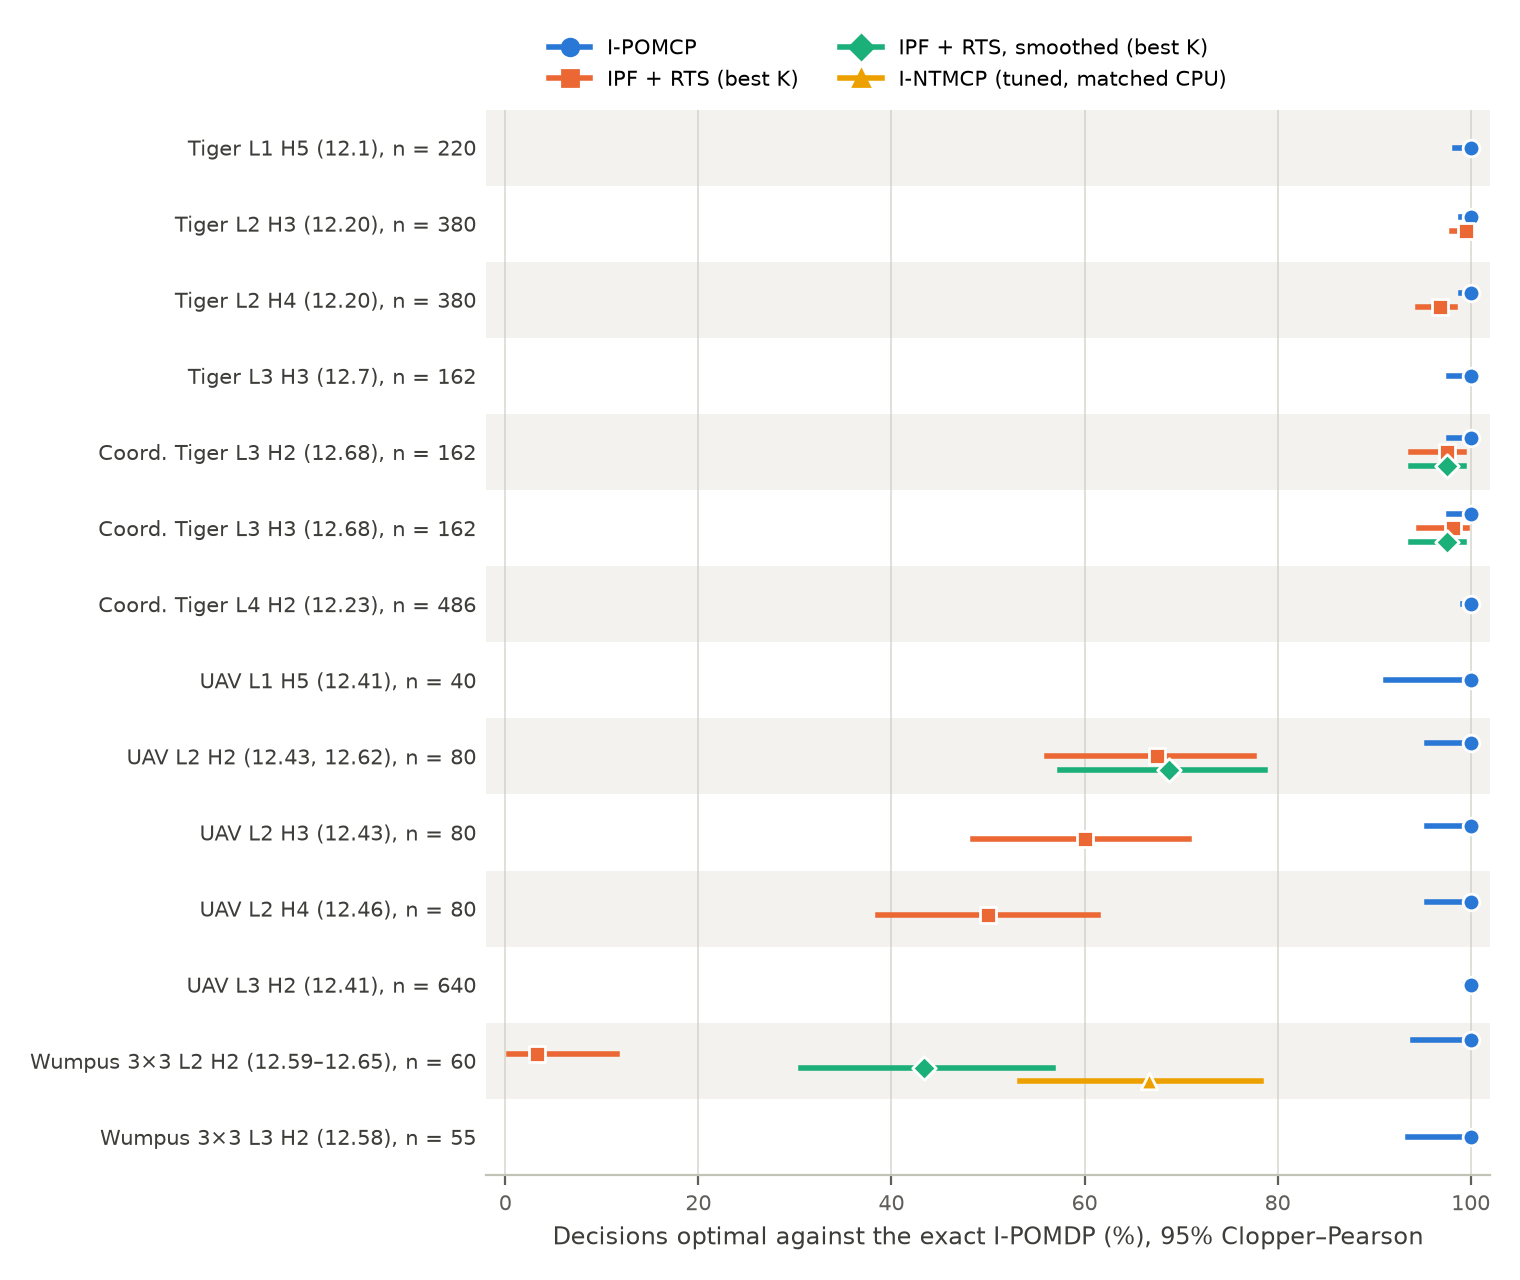
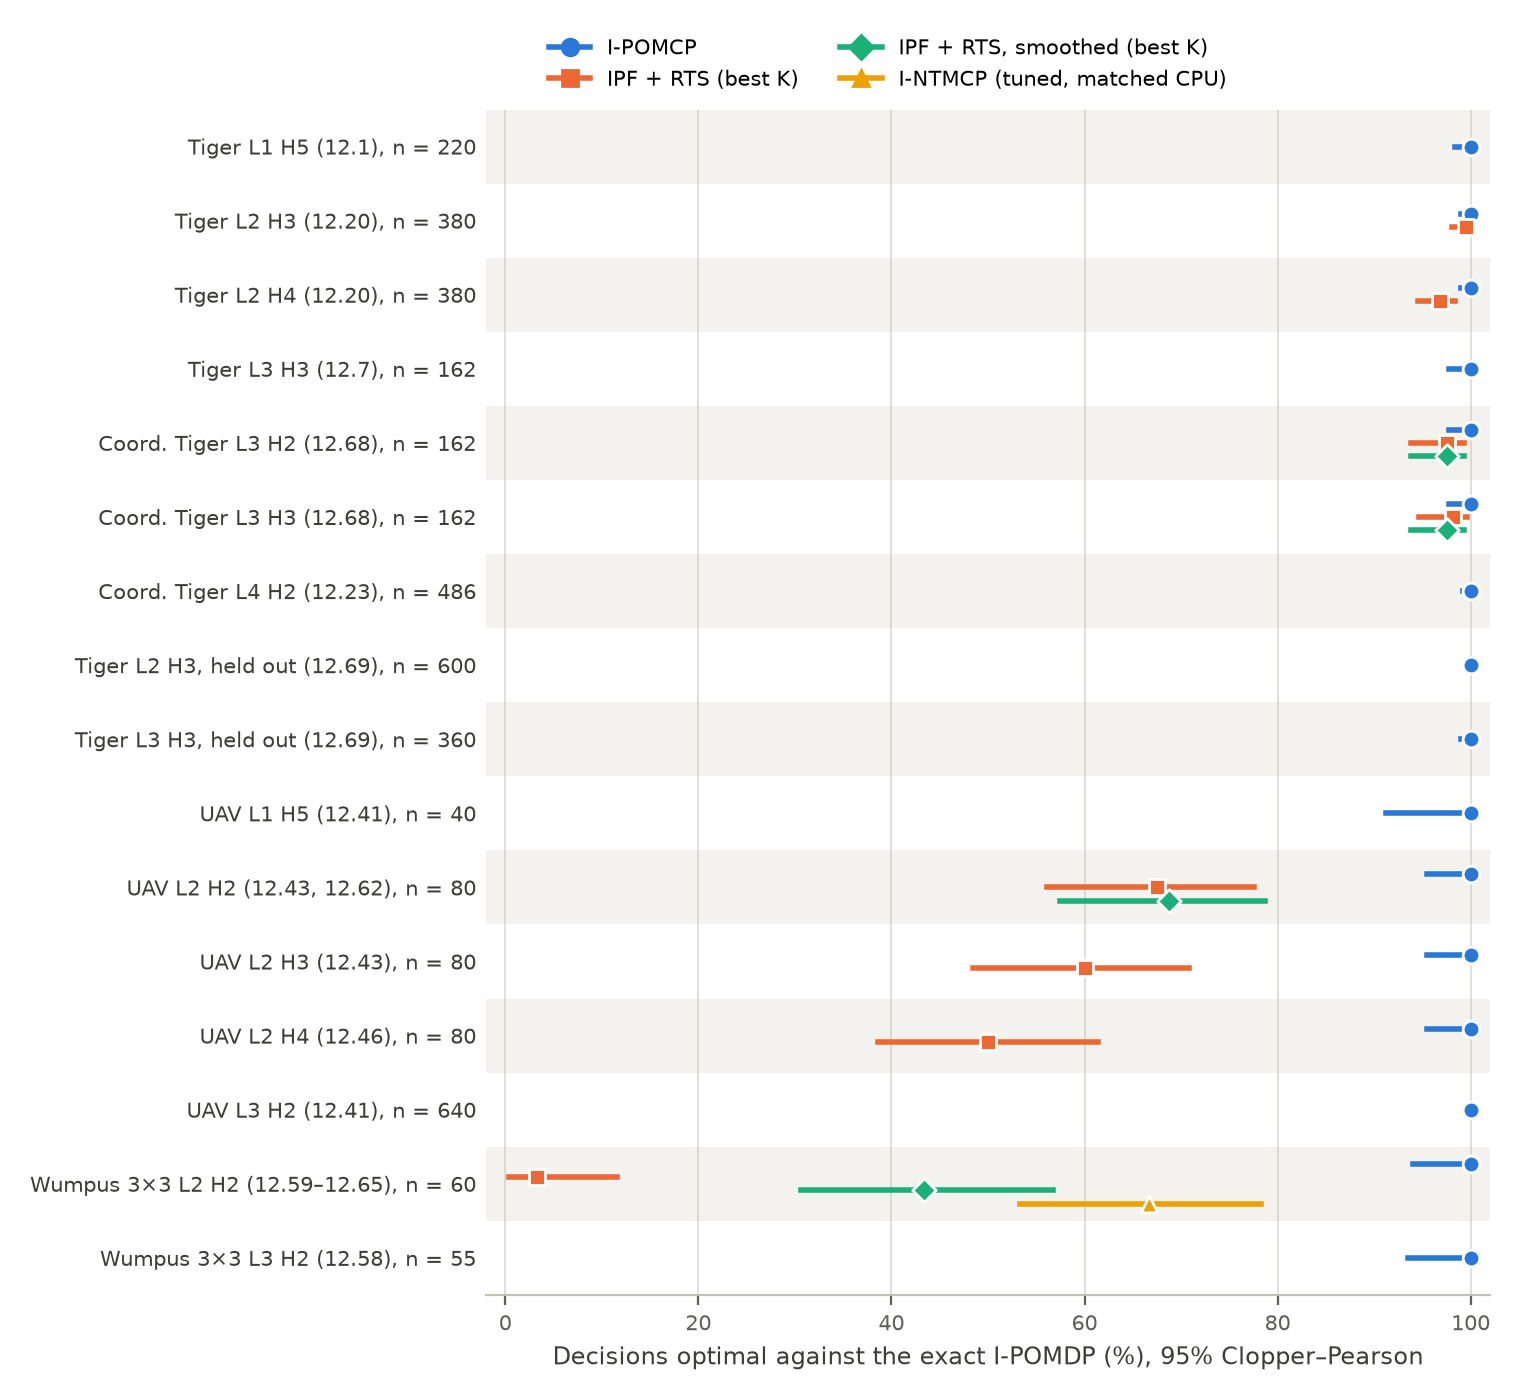
RESULTS 12.69: held-out check, qualified Tiger configurations optimal on 960/960 random beliefs no qualification used; draft, PAPER, Figure 1, PLAN, HANDOFF

diff --git a/docs/paper/draft.md b/docs/paper/draft.md
@@ -4,7 +4,7 @@
 
 ## Abstract
 
-Interactive POMDPs (I-POMDPs) let an agent plan against opponents that plan in turn, by holding beliefs over the opponent's beliefs. Exact solutions are intractable beyond toy problems, so practice relies on sampling planners. Their decisions have never been checked against exact I-POMDP solutions. We present I-POMCP, an online Monte Carlo tree search planner whose nested beliefs are exact, or compressed from exact updates, and whose search values are rescored with the exact chance law after search. Each decision carries per-action intervals that contain the exact action values of the searched model. Against exact I-POMDP solutions in three domains (multi-agent Tiger, UAV reconnaissance and a two-agent Wumpus world) and at nesting levels 1–4, I-POMCP's decisions are optimal on every problem of every gate we ran, for example 486 of 486 at level 4. The published baseline (an interactive particle filter with reachability-tree sampling) is optimal on 1.7–99.5% of the same problems. A modern nested MCTS planner (I-NTMCP) is optimal on 40 of 60 at matched CPU. The sampled filters fail outright when sensors are deterministic, and a standard repair does not close the gap. Beyond exact reach, in 20-step UAV episodes, I-POMCP earns more than I-NTMCP at matched CPU up to about 13 s per decision, and both reach the best reward at about 55 s. Finally, we show both by proposition and in paired episodes in four games that one more level of reasoning pays exactly when the opponent's actions depend on its beliefs about the agent, and not against a random opponent.
+Interactive POMDPs (I-POMDPs) let an agent plan against opponents that plan in turn, by holding beliefs over the opponent's beliefs. Exact solutions are intractable beyond toy problems, so practice relies on sampling planners. Their decisions have never been checked against exact I-POMDP solutions. We present I-POMCP, an online Monte Carlo tree search planner whose nested beliefs are exact, or compressed from exact updates, and whose search values are rescored with the exact chance law after search. Each decision carries per-action intervals that contain the exact action values of the searched model. Against exact I-POMDP solutions in three domains (multi-agent Tiger, UAV reconnaissance and a two-agent Wumpus world) and at nesting levels 1–4, I-POMCP's decisions at qualified budgets are optimal on every problem of every gate we ran, for example 486 of 486 at level 4, and on 960 of 960 held-out random beliefs. The published baseline (an interactive particle filter with reachability-tree sampling) is optimal on 1.7–99.5% of the same problems. A modern nested MCTS planner (I-NTMCP) is optimal on 40 of 60 at matched CPU. The sampled filters fail outright when sensors are deterministic, and a standard repair does not close the gap. Beyond exact reach, in 20-step UAV episodes, I-POMCP earns more than I-NTMCP at matched CPU up to about 13 s per decision, and both reach the best reward at about 55 s. Finally, we show both by proposition and in paired episodes in four games that one more level of reasoning pays exactly when the opponent's actions depend on its beliefs about the agent, and not against a random opponent.
 
 ## 1. Introduction
 
@@ -14,7 +14,7 @@ Online sampling planners make I-POMDPs usable at all: the interactive particle f
 
 We take the opposite route: make the planner exact wherever exactness is affordable, and check it against exact solutions wherever they can be computed. Our contributions:
 
-1. **I-POMCP, a planner that is exact where checkable** (Sections 4–5). It searches over the agent's private histories with Bellman backups and exact expected rewards. It holds nested beliefs exactly or compressed from exact updates, and rescores the tree with the exact chance law after search. On every gate grid we ran, across three domains and levels 1–4, its decisions are optimal against the exact I-POMDP. Its decisions carry certified per-action bounds, which contained the exact value in 1,016 of 1,016 decisions checked.
+1. **I-POMCP, a planner that is exact where checkable** (Sections 4–5). It searches over the agent's private histories with Bellman backups and exact expected rewards. It holds nested beliefs exactly or compressed from exact updates, and rescores the tree with the exact chance law after search. At qualified budgets, on every gate grid we ran across three domains and levels 1–4, and on held-out beliefs no qualification used, its decisions are optimal against the exact I-POMDP. Its decisions carry certified per-action bounds, which contained the exact value in 1,016 of 1,016 decisions checked.
 2. **A decision-level comparison with the published and the modern baselines** (Section 6). IPF + RTS misses 0.5–54% of decisions where its filter works. Its interactive particle filter fails on 55–57 of 60 problems when sensors are deterministic, and the standard likelihood-smoothing repair does not close the gap. I-NTMCP, run with the authors' code, is optimal on 40 of 60 Wumpus problems at I-POMCP's CPU. Beyond exact reach, I-POMCP earns more than tuned I-NTMCP in UAV episodes at matched CPU, until both saturate.
 3. **When a deeper model pays** (Section 7). A proposition shows that against an opponent whose actions do not depend on its beliefs about the agent, no model beats the level-1 best response. Paired episodes in four games confirm both directions: a second level gains 5.8–179 in reward against an intentional opponent where payoffs couple the agents, and nothing against a random one. The same prediction gain earns nothing when payoffs do not depend on the opponent.
 
@@ -91,8 +91,9 @@ A modeled opponent's solve may stop early when its sampled root value has conver
 | UAV | L3, H2 | 640 | 640/640 | [0.994, 1] | 12.41 |
 | Wumpus 3 × 3 | L2, H2 | 60 | 60/60 | [0.940, 1] | 12.58 |
 | Wumpus 3 × 3 | L3, H2 | 55 | 55/55 | [0.935, 1] | 12.58 |
+| Tiger, both games, held out | L2 H3; L3 H3 | 600; 360 | 600/600; 360/360 | [0.994, 1]; [0.990, 1] | 12.69 |
 
-**Below the qualified budgets, I-POMCP does miss.** On UAV, a target modeled with 100 simulations gives 63/80 at L2 H3 [12.41]. At L2 H4 with the target at 400, *i* is wrong on 16 of 32 problems: that is error in the opponent's model, not in *i*'s search [12.42]. At L1 H5, roots below 64,000 overestimate suboptimal moves [12.41]. Every qualified budget is the smallest rung of a ladder that was 100% on its grid, so the table above selects on the grid it reports. Two checks answer this. First, 12.69 reruns the qualified Tiger configurations, unchanged, on random beliefs and seeds no qualification used. Second, 12.67 scores every decision at histories reached in UAV episodes, which are beliefs no qualification saw: 120/120 per arm (Section 6.2).
+**Below the qualified budgets, I-POMCP does miss.** On UAV, a target modeled with 100 simulations gives 63/80 at L2 H3 [12.41]. At L2 H4 with the target at 400, *i* is wrong on 16 of 32 problems: that is error in the opponent's model, not in *i*'s search [12.42]. At L1 H5, roots below 64,000 overestimate suboptimal moves [12.41]. Every qualified budget is the smallest rung of a ladder that was 100% on its grid, so the table above selects on the grid it reports. Two checks answer this. First, the qualified Tiger configurations, rerun unchanged on 960 random beliefs and seeds that no qualification used, are optimal on all 960 (L2 H3: 300/300 per game; L3 H3: 180/180 per game; published and coordination Tiger) [12.69]. Second, 12.67 scores every decision at histories reached in UAV episodes, which are beliefs no qualification saw: 120/120 per arm (Section 6.2).
 
 Wumpus 4 × 4 at level 1 is qualified on 52 beliefs with *N* = 4,096 atoms [12.53]. The one residual is Tiger L3 H4, where 4 of 80 decisions miss near-ties with gaps of at most 0.03. All 80 are ε-correct [12.14, 12.54]. The certified bounds contained the exact *Q* of the searched model in 1,016 of 1,016 decisions checked [12.17, 12.41].
 

diff --git a/docs/RESULTS.md b/docs/RESULTS.md
@@ -2299,6 +2299,28 @@ The definition is in THEORY.md, "Tie convention".
   - These are per-decision values at the gate's chains, not the episode distribution. The target's own screen needs references from its side, which are not stored.
 - **Reading:** the screen tells *where* depth pays: never at the prior, and at 19 of the 40 later histories. It is not tied to sensing the wumpus: 17 of those 19 histories contain no stench. This is a reusable, episode-free check. A matched control screen (histories from a random wumpus) is the obvious next step, at about the same cost.
 
+### 12.69 Held-out check: the qualified Tiger configurations are optimal on 960 of 960 random beliefs no qualification used (October 19, 2026)
+
+**Why:** every qualified budget is the smallest rung of a ladder that was 100% optimal on its grid, and the paper then reports that grid. A reviewer can call this selection on the test set. This reruns the qualified configurations, unchanged, on problems no qualification or gate used.
+
+**Design** (`results/g7_heldout_20261019`; `ENDPOINTS.md` fixed before the main run; `job.py`, `analyze.py`, `analysis.txt`):
+- **Problems:** beliefs drawn uniformly from [0.02, 0.98] (3 decimals) by a generator seeded with (game, level, seed), on seeds 100 and above, which no earlier run used. History 0. Every decision is scored against the exact I-POMDP.
+- **L2 H3:** root 1,000, modeled `400`, exact beliefs (the configuration of 12.3 and 12.23). Per seed, 10 beliefs of i × 3 of j; seeds 100–109, so n = 300 per game.
+- **L3 H3:** root 1,000, modeled `6400s/100`, exact beliefs (12.7, 12.23). Per seed, 6 × 3 × 2 beliefs; seeds 100–104, so n = 180 per game.
+- **Games:** the published and the coordination Tiger.
+
+| Game, cell | n | Optimal [95%] | ε-correct | Median CPU per decision |
+|---|---|---|---|---|
+| Published Tiger, L2 H3 | 300 | **300/300** [0.988, 1] | 300/300 | 1.2 s |
+| Coordination Tiger, L2 H3 | 300 | **300/300** [0.988, 1] | 300/300 | 1.2 s |
+| Published Tiger, L3 H3 | 180 | **180/180** [0.980, 1] | 180/180 | 31 s |
+| Coordination Tiger, L3 H3 | 180 | **180/180** [0.980, 1] | 180/180 | 22 s |
+
+- **The qualification carries over to held-out beliefs.** All 960 decisions are optimal. By the reading fixed in advance, the qualified Tiger configurations are not an artefact of selecting on their own grids.
+- **UAV's held-out evidence is 12.67.** There, every decision at histories 0–4 reached in H4 episodes was scored exactly (120/120 per I-POMCP arm). Those beliefs were never used for qualification.
+- **CPU is higher than in 12.23's L3 gate** (22–31 s against 8.4 s per decision). Random beliefs reach more distinct nested beliefs than the grid's symmetric points, and the machine ran at load 12–14.
+- **Cost:** 4.6 CPU-h, against a pilot price of about 3 and a kill line of 8.
+
 ### 12.68 IPF + RTS at level 3 on the coordination Tiger: 91–98% optimal against I-POMCP's 162/162, never right where I-POMCP is wrong; significant only at K = 2 (October 19, 2026)
 
 **Why:** PAPER C2's comparison with the published baseline against the exact I-POMDP covered level 2 only. A reviewer could ask whether it holds at level 3 (HANDOFF 0.000, item 2).

diff --git a/docs/HANDOFF.md b/docs/HANDOFF.md
@@ -8,10 +8,10 @@ Read this first (Section 0 is enough to start). Then, as needed:
 - [ARCHITECTURE.md](ARCHITECTURE.md): how the package fits together;
 - [PLAN.md](PLAN.md): the phases, newest on top (the top one is "publication gaps").
 
-Last updated October 19, 2026, about 11:40 (0.0000). Claude is the sole owner of `main`; there are no other agents.
+Last updated October 19, 2026, about 13:10 (0.0000). Claude is the sole owner of `main`; there are no other agents.
 - **Tiger, UAV and Wumpus 3 × 3 are complete** (RESULTS 12.1–12.61).
 - **Publication gaps (since October 18):** G1–G5 are done (12.62–12.67).
-- **Reviewer readiness is done, and paper draft 1 is written** (October 19, 0.0000; RESULTS 12.68). Nothing is running. **Next: the references and a skeptical read of the draft (0.0000).**
+- **Reviewer readiness is done, and paper draft 1 is written** (October 19, 0.0000; RESULTS 12.68–12.69). Nothing is running. **Next: the references and a skeptical read of the draft (0.0000).**
 
 ## 0. Start here (fresh agent)
 
@@ -19,7 +19,7 @@ Last updated October 19, 2026, about 11:40 (0.0000). Claude is the sole owner of
 
 Plan: `~/.claude/plans/pick-up-handoff-and-keen-cat.md` (0.000's items 1–5).
 
-**State.** `main` is clean and pushed, with no code change, so 369 tests still pass. Nothing is running. **The next free RESULTS section is 12.69.**
+**State.** `main` is clean and pushed, with no code change, so 369 tests still pass. Nothing is running. **The next free RESULTS section is 12.70.**
 
 **Done:**
 - **Item 1, the Claude Doc** (now rev 100):
@@ -35,6 +35,17 @@ Plan: `~/.claude/plans/pick-up-handoff-and-keen-cat.md` (0.000's items 1–5).
 - **Item 4:** equilibria are future work (**user's decision, October 19**), now in the PAPER outline and the draft.
 - **Figure 3:** `docs/figures/depth_gain.png` (script `results/g5c_figure3_20261019/figure.py`, values copied from 12.37, 12.49 and 12.60).
 - **Item 5, paper draft 1:** `docs/paper/draft.md` (Markdown; there is no LaTeX template or toolchain on this machine). Every claim cites RESULTS. Table 1 includes 12.68.
+
+**Afternoon, after "go ahead":**
+- **References checked** against their own abstracts (RELATED_WORK.md). Panella & Gmytrasiewicz (2017) is model learning, not a solver; the draft is fixed.
+- **12.68 diagnosis:** the L3 H2 RTS misses are search error at K = 2 and particle error at K = 4–8. RTS on exact beliefs makes none at K ≥ 4, and IPF + RTS makes none at K = 32 (under 0.1 CPU-h).
+- **Skeptical read: four objections answered in the draft.**
+  - The failing budgets are now shown.
+  - Selection on the grid is answered by **RESULTS 12.69, a held-out check:** 960/960 optimal on random beliefs with fresh seeds, at the qualified Tiger L2 H3 and L3 H3 configurations, both games; 4.6 CPU-h.
+  - The screened coordination payoff is disclosed.
+  - Proposition 1 is now Observation 1.
+  - CPU comparability: all planners are pure Python and single-threaded.
+- **Figure 1** now has the two held-out rows. The Claude Doc has a held-out paragraph (rev 101+).
 
 **Next, in Claude's order:**
 1. ~~Figure 1~~ done: `docs/figures/exactness.png` (script `results/g2_figure1_20261019/figure.py`).

diff --git a/docs/PAPER.md b/docs/PAPER.md
@@ -22,6 +22,7 @@
 | UAV: L1 H2–H5, L2 H2–H4, L3 H2 all optimal at qualified budgets | 12.41–12.42 |
 | Wumpus 4 × 4 L1 qualified (52 beliefs, N = 4,096); 3 × 3 L2 H2 60/60, L3 H2 55/55 (every root exactly scored) | 12.53, 12.58 |
 | Certified per-action bounds contain the exact Q in 1,016/1,016 decisions checked | 12.17, 12.41 |
+| Held out: the qualified Tiger configurations on 960 random beliefs and seeds no qualification used, 960/960 optimal (L2 H3 and L3 H3, both games); UAV's held-out evidence is 12.67's exactly scored episode decisions | 12.69, 12.67 |
 | The L3 H4 residual (4/80 near-ties, gaps ≤ 0.03) is 80/80 ε-correct | 12.14, 12.54 |
 | **Beyond exact reach** (UAV episodes from the common prior, H4–H5): I-POMCP is exactly optimal on every scored H4 decision (histories 0–4) from root 4,000 or own budget 1,000, and near the best reward from 1.4 s per decision. L2 H5 with the uniform prior needs root 64,000 (diagnosed: root-search error; fixed in replays, not yet in episodes). Only the first 5 (H4) or 2 (H5) decisions per episode are exactly scored | 12.67 |
 

diff --git a/docs/PLAN.md b/docs/PLAN.md
@@ -33,6 +33,7 @@
   - IPF + RTS at level 3 (RESULTS 12.68): coordination Tiger, 162/162 against 91–98%; significant only at K = 2; 25 CPU-h.
   - The 12.67 weak spots are stated in PAPER.md. Equilibria are future work (user's decision).
   - Figure 3 is done. Paper draft 1 is in `docs/paper/draft.md`.
+  - Afternoon: held-out check (RESULTS 12.69, 960/960); references checked; 12.68 diagnosis; reviewer objections answered in the draft.
 - **G4 done:** RESULTS 12.63 (ablation table).
 - **G5b, Wumpus part done:** RESULTS 12.64 (the exact depth screen).
 
